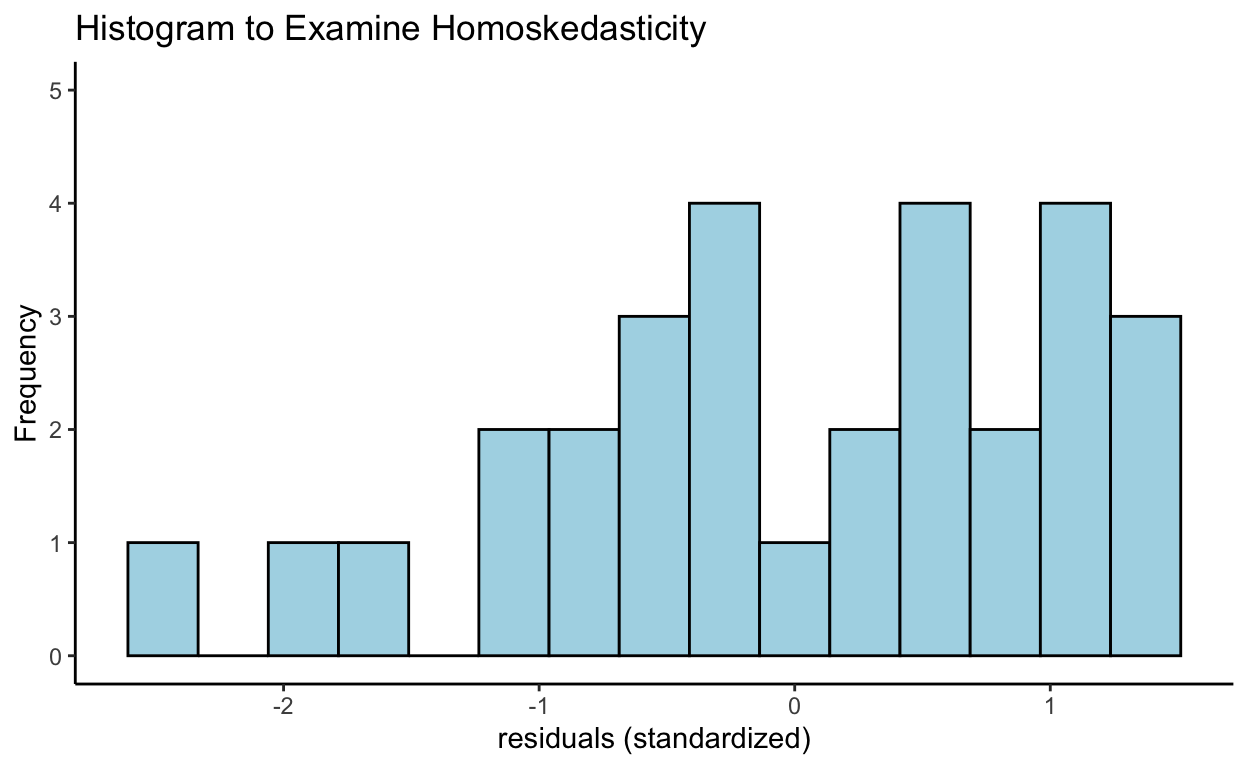
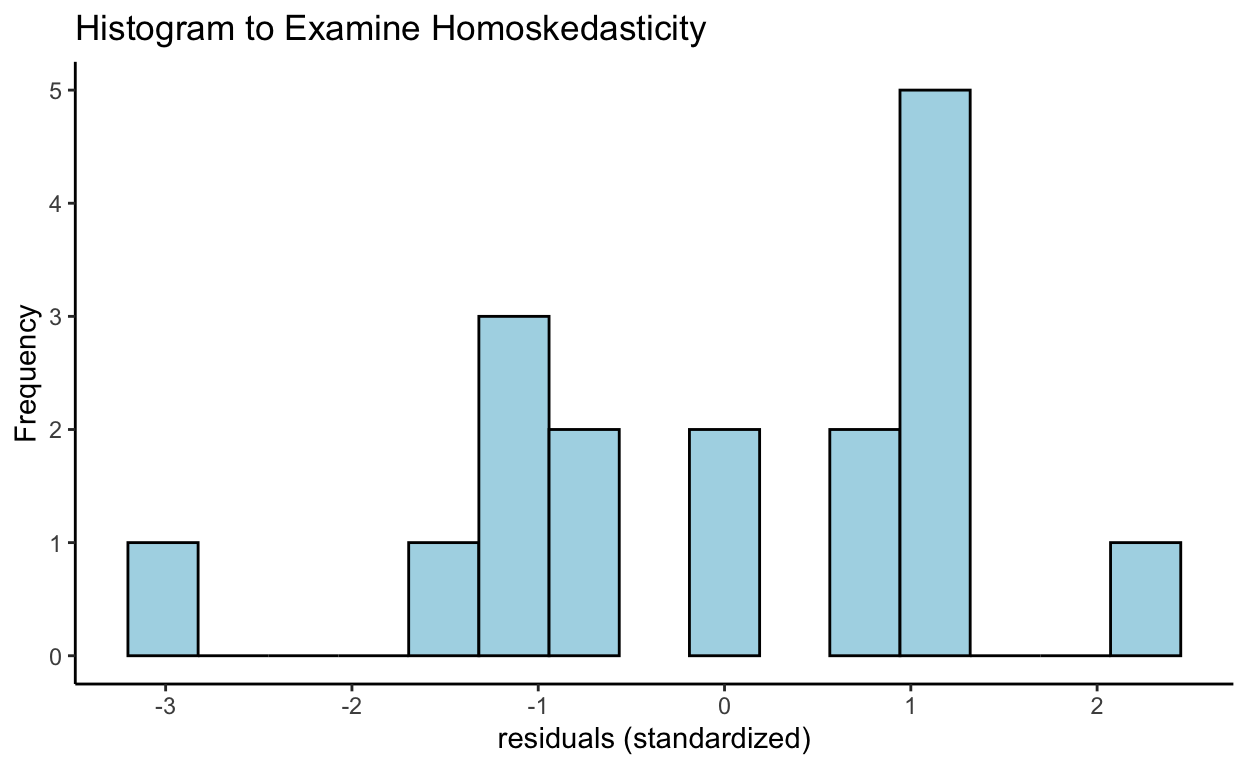
change data of MLR blog

diff --git a/docs/lm_ii.html b/docs/lm_ii.html
@@ -2188,38 +2188,38 @@ Statistik II
 <h3 id="here-is-the-data-they-obtained">Here is the data they obtained:</h3>
 <div class="layout-chunk" data-layout="l-body">
 <pre><code>   Alcohol.ml Study.Hours Test.Results
-1          29          48           80
-2          79          45           55
-3          41          35           90
-4          88          40           90
-5          94           2           89
-6           5          24           86
-7          53          38           83
-8          89          12           64
-9          55          17           55
-10         46          12           52
-11         96           8           39
-12         45          21           59
-13         68          21           19
-14         57          19           94
-15         10           8           51
-16         90           8           49
-17         25          12           88
-18          4          24           64
-19         33          14           75
-20         95          43           66
-21         89           3           65
-22         69          23           96
-23         64          40           58
-24         99           7           97
-25         66          28           84
-26         71          11           71
-27         54           7           74
-28         59          38           79
-29         29          45           47
-30         15          19           27</code></pre>
+1          24          14           54
+2          28           7           45
+3          46          19           47
+4          31          19           40
+5          31          18           39
+6          47          17           53
+7          35          16           54
+8          17           9           51
+9          23           7           59
+10         26           6           71
+11         42           3           45
+12         34           8           27
+13         34           3           60
+14         31          32           43
+15         24          22           43
+16         48           1           60
+17         35           6           47
+18         10           5           38
+19         37          18           52
+20         25           9           49
+21         19          13           50
+22         28          10           54
+23         20          10           46
+24         23          24           56
+25         24           8           48
+26         13          25           53
+27         38           5           61
+28         32          16           54
+29         19          11           47
+30         43          12           61</code></pre>
 </div>
-<h3 id="in-this-parallel-universe-the-rules-are-often-different-but-plotting-your-data-is-as-in-ours-simply-a-must">In this parallel universe the rules are often different but plotting your data is as in ours, simply a must!</h3>
+<h3 id="in-this-parallel-universe-the-rules-are-often-different-to-ours-but-plotting-your-data-is-just-like-in-our-universe-simply-a-must">In this parallel universe the rules are often different to ours but plotting your data is just like in our universe, simply a must!</h3>
 <p>And so they did!</p>
 <div class="layout-chunk" data-layout="l-body">
 <iframe src="https://tehilla-mechera-ostrovsky.shinyapps.io/3d_LMR/?showcase=0" width="624" height="600px" data-external="1">
@@ -2233,15 +2233,27 @@ Statistik II
 <div class="layout-chunk" data-layout="l-body">
 <div class="sourceCode">
 <pre class="sourceCode r"><code class="sourceCode r"><span><span class='va'>mod</span> <span class='op'>&lt;-</span>  <span class='fu'><a href='https://rdrr.io/r/stats/lm.html'>lm</a></span><span class='op'>(</span><span class='va'>Test.Results</span> <span class='op'>~</span> <span class='va'>Alcohol.ml</span> <span class='op'>+</span> <span class='va'>Study.Hours</span>, data <span class='op'>=</span> <span class='va'>dat</span><span class='op'>)</span></span>
-<span><span class='va'>mod</span></span></code></pre>
+<span><span class='fu'><a href='https://rdrr.io/r/base/summary.html'>summary</a></span><span class='op'>(</span><span class='va'>mod</span><span class='op'>)</span></span></code></pre>
 </div>
 <pre><code>
 Call:
 lm(formula = Test.Results ~ Alcohol.ml + Study.Hours, data = dat)
 
+Residuals:
+    Min      1Q  Median      3Q     Max 
+-24.732  -4.357   1.377   4.963  19.854 
+
 Coefficients:
-(Intercept)   Alcohol.ml  Study.Hours  
-   61.45978      0.06621      0.13174  </code></pre>
+            Estimate Std. Error t value Pr(&gt;|t|)    
+(Intercept)  49.1341     6.0053   8.182 8.71e-09 ***
+Alcohol.ml    0.1263     0.1644   0.768    0.449    
+Study.Hours  -0.2118     0.2186  -0.969    0.341    
+---
+Signif. codes:  0 &#39;***&#39; 0.001 &#39;**&#39; 0.01 &#39;*&#39; 0.05 &#39;.&#39; 0.1 &#39; &#39; 1
+
+Residual standard error: 8.708 on 27 degrees of freedom
+Multiple R-squared:  0.05882,   Adjusted R-squared:  -0.01089 
+F-statistic: 0.8437 on 2 and 27 DF,  p-value: 0.4411</code></pre>
 </div>
 <div class="layout-chunk" data-layout="l-body">
 <div class="sourceCode">
@@ -2287,7 +2299,7 @@ Coefficients:
 <img src="lm_ii_files/figure-html5/unnamed-chunk-6-1.png" width="624" /></li>
 </ol>
 </div>
-<p>They concluded that they have too many obsticles on the way to a linear regression and deicded to wait to learn more about other possibilities before making any importnat conclusions.</p>
+<h3 id="following-their-diagnostic-measures-they-deicded-to-eplore-other-statistical-models-before-making-any-public-conclusions.">Following their diagnostic measures, they deicded to eplore other statistical models before making any public conclusions.</h3>
 <!-- ```{r echo=FALSE} -->
 <!-- knitr::include_app("https://tehilla-mechera-ostrovsky.shinyapps.io/Bivariat_3d/",  -->
 <!--   height = "600px") -->
